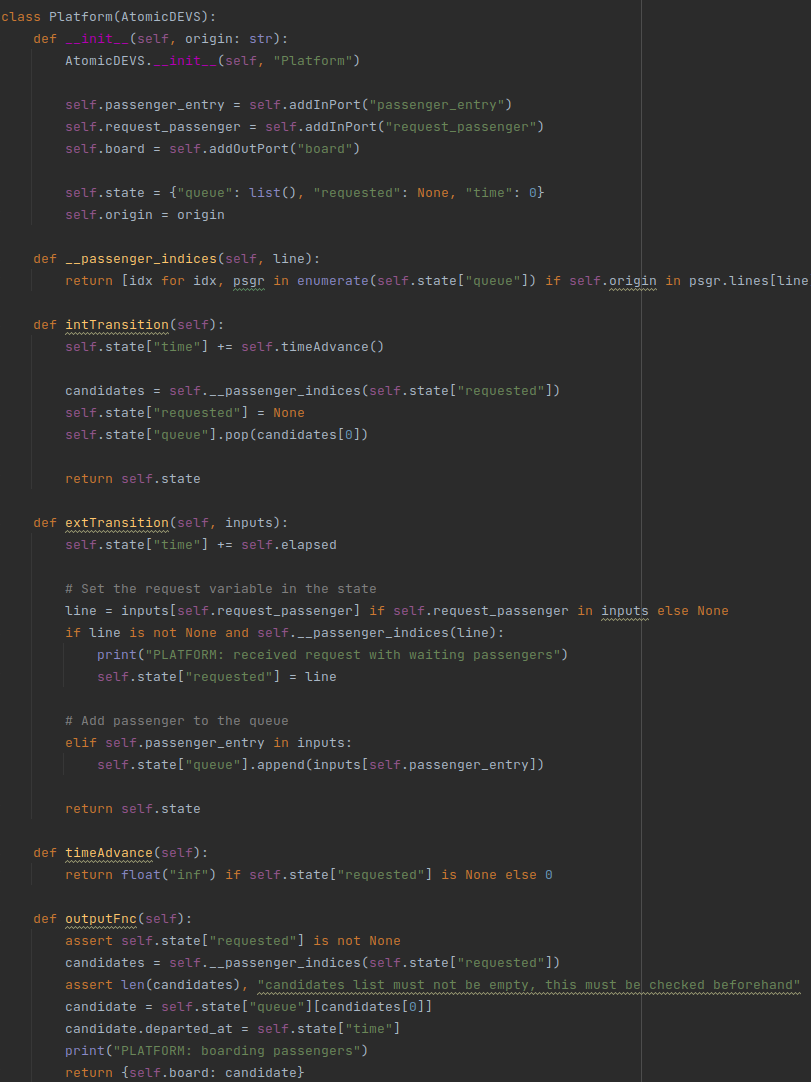
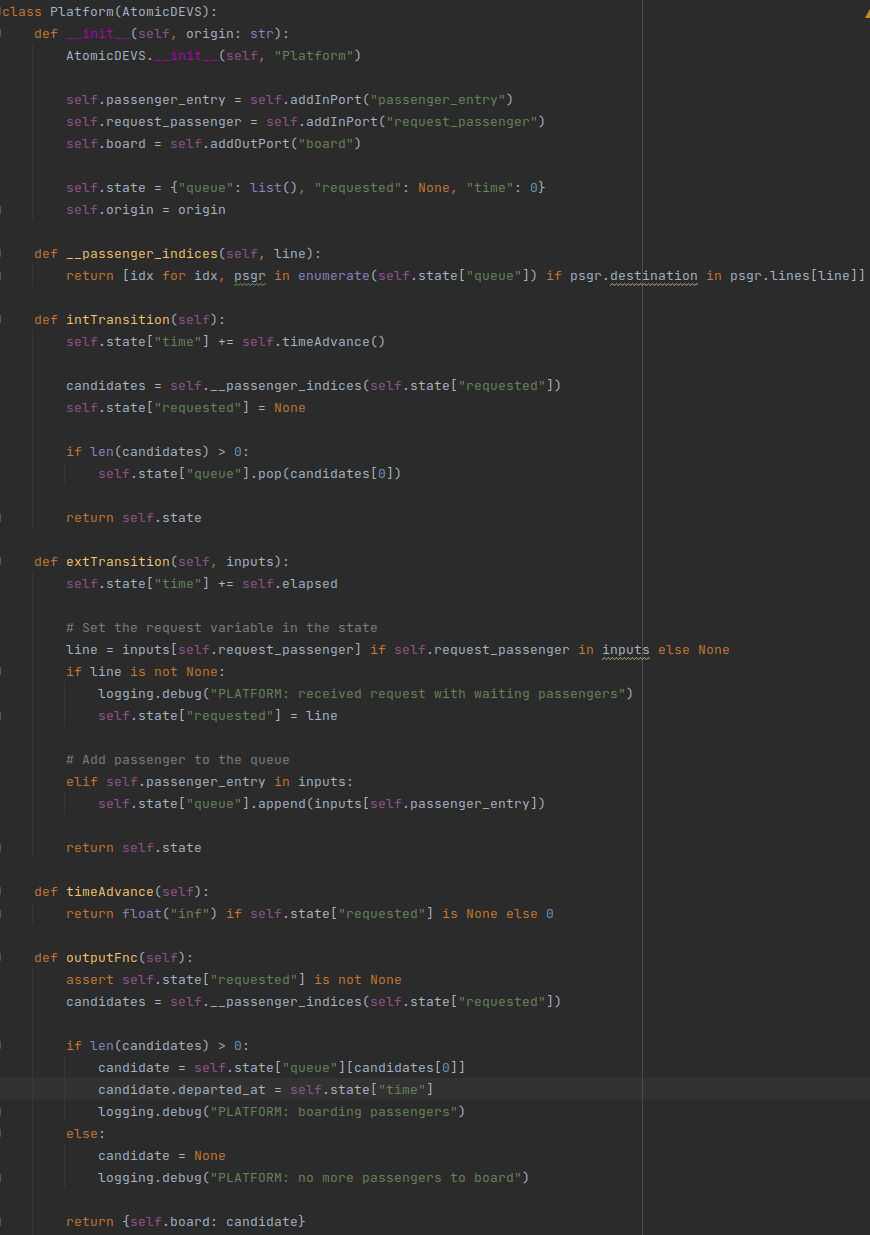
fixed some screenshots and descriptions

diff --git a/6-devs/index.html b/6-devs/index.html
@@ -211,12 +211,12 @@
                         <p> This part of the code
                             makes use of the statistics gathering pattern, as well as the complex state pattern. We have
                             the collector statistics class, which contains some parameters like the average time that a
-                            passenger traveled, the amount that exited at a (desired) destination and the amount that
-                            exited at their origin destination. We have the collector which keeps the departed
-                            passenger (in our terms this means that the passenger arrived if this event occurs), the
-                            origin station and all the passengers as well as the elapsed time since the beginning. This
-                            elapsed time since the beginning is called the simulated time and is another pattern for
-                            DEVS.
+                            passenger traveled (which is 0 when we don't have any passengers), the amount that exited at
+                            a (desired) destination and the amount that exited at their origin destination. We have the
+                            collector which keeps the departed passenger (in our terms this means that the passenger
+                            arrived if this event occurs), the origin station and all the passengers as well as the
+                            elapsed time since the beginning. This elapsed time since the beginning is called the
+                            simulated time and is another pattern for DEVS.
                         </p>
                         <p>
                             For the next part we'll discuss the methods. The first method is the time advance, because
@@ -238,7 +238,8 @@
                         <p>
                             We first describe the helper method passenger_indices. This method is used to get the
                             indices from all the passengers that are in the queue waiting for a trolley that serves a
-                            given line. We use the simulated time pattern described in the course notes. In order to
+                            line that has the destination of the passenger. We use the simulated time pattern described
+                            in the course notes. In order to
                             decide what the time advance should be we check if there is a passenger requested by the
                             track, if there is then we set the time advance to 0, otherwise we set it to infinity. The
                             internal transition is performed by selecting all the candidates, that can be on the line.
@@ -247,14 +248,15 @@
                             passenger. And only when we have passengers waiting for that line we can set the requested
                             parameter in the state to the line that is requested. Otherwise, if we have a passenger
                             entry, we need to add it to the passenger queue. Last but not least, we have the output
-                            function, that can only be executed if the there is a requested passenger, and there are
-                            candidates. the candidates are then chosen from the candidates list, and only the first
+                            function, that can only be executed if there is a requested passenger, and there are
+                            candidates. The candidates are then chosen from the candidates list, and only the first
                             candidate is chosen that has a destination that is on the requested line. We also store the
                             departed time of the candidate passenger for later statistics.
                         </p>
                         <h4>Track</h4>
                         <img src="img/model/track-1.png" alt=""/>
                         <img src="img/model/track-2.png" alt=""/>
+                        <img src="img/model/track-3.png" alt=""/>
                         <p> The code can be found <a href="src/models/track.py">here</a>. </p>
 
                         <p> For this part we chose an
@@ -300,10 +302,12 @@
                                 When the trolley has finished arriving then the state must become unboarding.
                             </li>
                             <li>
-                                When we discover that we are in the state unboarding and we unboarded everyone in the
-                                list, i.e. the counter is the length of the list, we can get to the boarding
+                                When we discover that we are in the state unboarding, and we did disembark everyone in
+                                the list, i.e. the counter is the length of the list, we can get to the boarding
                                 phase. This phase takes all the passengers that can board and boards them onto the
-                                trolley and set the state to the boarding state and keep the trolley also in it.
+                                trolley and set the state to the boarding state and keep the trolley also in it. We also
+                                check that the passengers still on the trolley plus the passengers that should unboard,
+                                equals the previous total passengers on the trolley, before the unboarding was complete.
                             </li>
                             <li>
                                 When we only have that we were in the unboarding phase we need to lower the amount of
